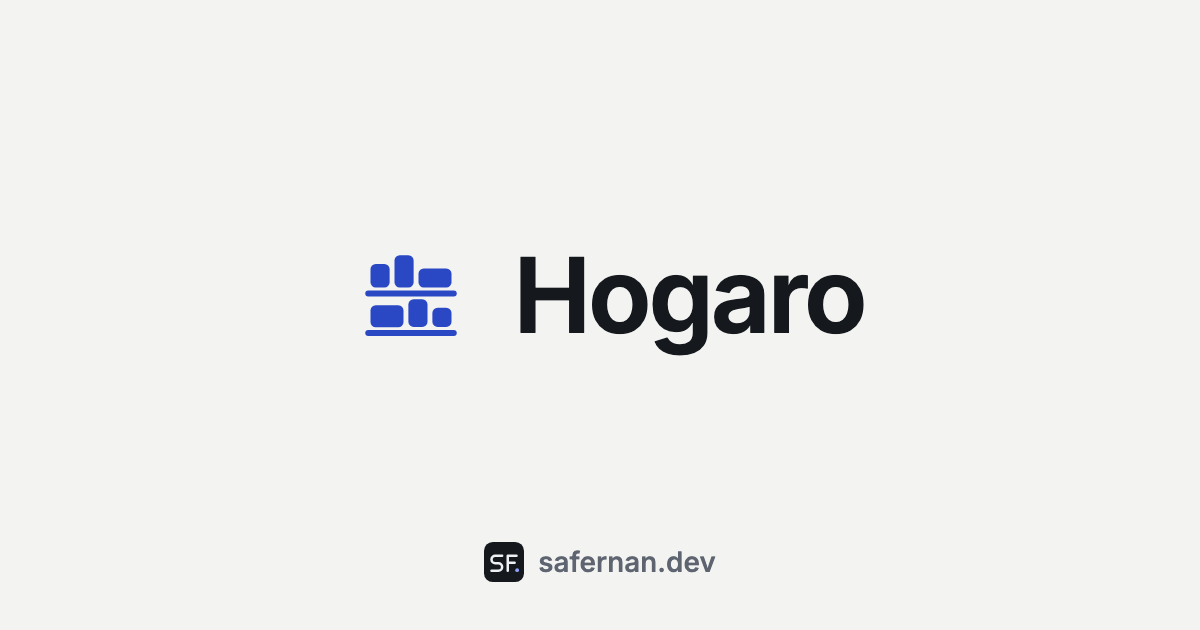
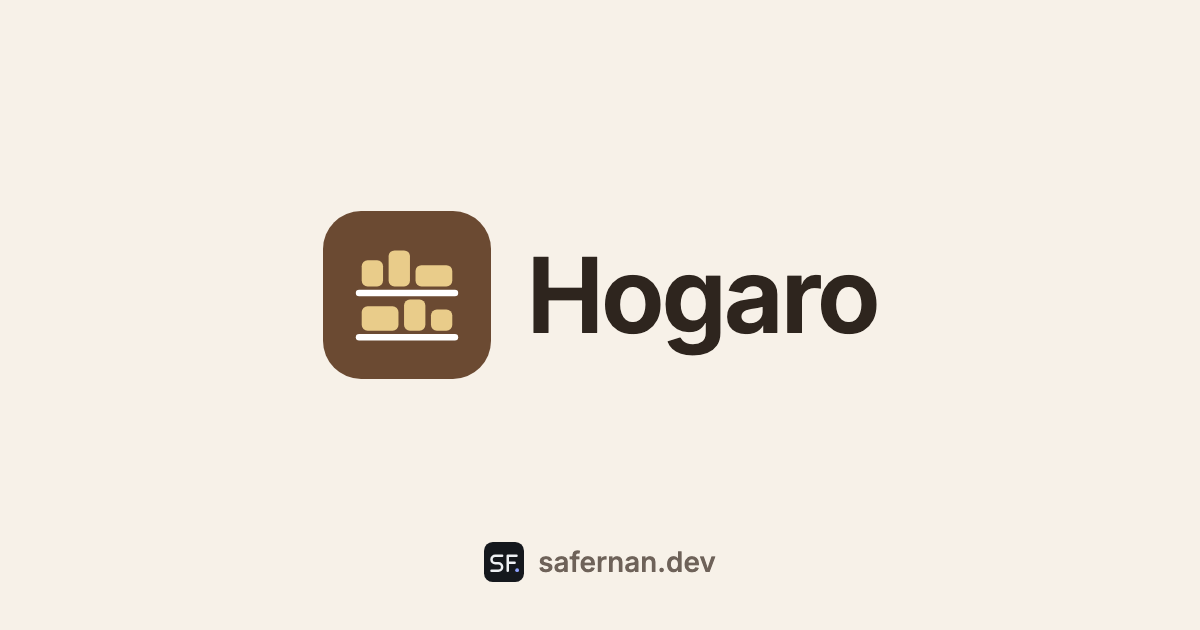
Update Hogaro to its Umber + Wheat rebrand
Show the app's recoloured Shelf icon on the Upcoming projects card and
link preview, refresh the page texts in English and Spanish from the
October 19 masterplan and hogaro.app, and link to the public site.

Changed region(s): [[0.2467, 0.3317, 0.74, 0.6032]]

diff --git a/src/content/upcomingProjects.ts b/src/content/upcomingProjects.ts
@@ -19,7 +19,7 @@ export interface UpcomingProject {
   }[]
 }
 
-// Product direction from Hogaro/docs/MASTERPLAN.md, reviewed October 6, 2026.
+// Product direction from Hogaro/docs/MASTERPLAN.md and hogaro.app, reviewed October 19, 2026.
 // These describe intended outcomes, including features still being developed.
 export const upcomingProjects: UpcomingProject[] = [
   {
@@ -30,21 +30,21 @@ export const upcomingProjects: UpcomingProject[] = [
       'Turn what’s already in your kitchen into good meals, with less waste and less guesswork.',
     tagline: 'A little less waste. A lot more possibility.',
     introduction:
-      'Open the fridge and know what to make. I’m building Hogaro to help you make the most of the food you already have, find meals you’ll look forward to, and head to the shops with a list that makes sense.',
-    availability: 'Coming to iOS and Android',
+      'Open the fridge and know what to make. I’m building Hogaro to help you make the most of the food you already have, find meals you’ll look forward to, share a pantry with the people you live with, and head to the shops with a list that makes sense.',
+    availability: 'Coming to iOS, Android and the web',
     stack: ['React Native', 'Expo', 'TypeScript', 'GraphQL', 'PostgreSQL', 'SQLite', 'Node.js'],
     features: [
       {
         title: 'Know what you have',
-        text: 'Is there rice in the cupboard? Are those tomatoes still waiting to be used? Keep a clear view of your kitchen, with a nudge when food needs using and a heads-up when the essentials are running low.',
+        text: 'Is there rice in the cupboard? Are those tomatoes still waiting to be used? Keep a clear view of your kitchen, where every purchase keeps its own quantity and dates and the food that expires first gets used first, with a nudge when something needs using and a heads-up when the essentials are running low.',
       },
       {
         title: 'Get to know your food',
-        text: 'See calories, protein, and more for your ingredients, with nutrition per 100 g and clear sources behind the numbers. Look up foods even when you’re offline, and add your own values for the ingredients you use.',
+        text: 'See calories, protein, and more for your ingredients, with nutrition per 100 g from the French Ciqual tables and reviewed USDA values filling the gaps. Look up hundreds of everyday foods even when you’re offline, and save anything you can’t find under your own name.',
       },
       {
         title: 'Dinner starts with what you have',
-        text: 'Turn a few ingredients into dinner ideas that suit the way you eat. AI will help you find recipes for your tastes and the time you have. Save the ones you love, adjust the servings, and confirm what you’ve cooked to keep your pantry up to date.',
+        text: 'Turn a few ingredients into dinner ideas that suit the way you eat. Bring in your own recipes from a website link or pasted text, see which ones you can make right now and which are just an ingredient away, and let AI find more recipes for your tastes and the time you have. Save the ones you love, adjust the servings, and confirm what you’ve cooked to keep your pantry up to date.',
       },
       {
         title: 'Make the week a little easier',
@@ -52,11 +52,11 @@ export const upcomingProjects: UpcomingProject[] = [
       },
       {
         title: 'A pantry you can share',
-        text: 'Keep everyone on the same page, from what’s in the cupboard to what needs picking up. Share pantry ingredients and shopping lists with your household, while your saved recipes stay yours. Check your shelves and update stock even when you’re offline.',
+        text: 'Keep everyone on the same page, from what’s in the cupboard to what needs picking up. Invite the people you live with, choose whether each of them can edit the stock, the shopping lists, or both, and set a few things aside just for you. Your saved recipes stay yours, you can check your shelves and update stock even when you’re offline, and sharing is free.',
       },
       {
-        title: 'A photo to get you started',
-        text: 'Take a photo and get a little help identifying your ingredients. Review the suggestions, add quantities and dates, and choose what goes into your pantry. A quicker start, with you in charge of what gets saved.',
+        title: 'Quicker ways to add food',
+        text: 'Type or paste a list like “2 cans of chickpeas, 1 l of milk, a dozen eggs” and review it before anything is saved, no connection needed. Scanning the barcode on packaged food comes next, so recording a shopping trip takes moments rather than minutes.',
       },
     ],
     screenshots: [

diff --git a/src/content/es/index.ts b/src/content/es/index.ts
@@ -437,20 +437,20 @@ export const upcomingProjects: UpcomingProject[] = [
     category: 'Tu ayuda en la cocina',
     summary: 'Convierte lo que ya tienes en la cocina en comidas ricas, con menos desperdicio y menos dudas.',
     tagline: 'Un poco menos de desperdicio. Muchas más posibilidades.',
-    introduction: 'Abre la nevera y descubre qué preparar. Estoy creando Hogaro para ayudarte a aprovechar la comida que ya tienes, encontrar platos que te apetezcan y hacer la compra con una lista que tenga sentido.',
-    availability: 'Próximamente en iOS y Android',
+    introduction: 'Abre la nevera y descubre qué preparar. Estoy creando Hogaro para ayudarte a aprovechar la comida que ya tienes, encontrar platos que te apetezcan, compartir la despensa con quienes viven contigo y hacer la compra con una lista que tenga sentido.',
+    availability: 'Próximamente en iOS, Android y la web',
     features: [
       {
         title: 'Ten claro lo que tienes',
-        text: '¿Queda arroz en la despensa? ¿Siguen esperando esos tomates? Ten una visión clara de tu cocina, con recordatorios cuando toca usar un alimento y avisos cuando se están acabando los básicos.',
+        text: '¿Queda arroz en la despensa? ¿Siguen esperando esos tomates? Ten una visión clara de tu cocina, donde cada compra conserva su propia cantidad y sus fechas y lo que caduca antes se usa primero, con recordatorios cuando toca usar un alimento y avisos cuando se están acabando los básicos.',
       },
       {
         title: 'Conoce mejor tus alimentos',
-        text: 'Consulta calorías, proteínas y más información de tus ingredientes, con valores nutricionales por 100 g y fuentes claras para las cifras. Busca alimentos incluso sin conexión y añade tus propios valores para los ingredientes que usas.',
+        text: 'Consulta calorías, proteínas y más información de tus ingredientes, con valores nutricionales por 100 g tomados de las tablas francesas Ciqual y completados con valores revisados del USDA. Busca entre cientos de alimentos habituales incluso sin conexión y guarda con tu propio nombre lo que no encuentres.',
       },
       {
         title: 'La cena empieza con lo que tienes',
-        text: 'Convierte unos pocos ingredientes en ideas para cenar que se adapten a tu forma de comer. La IA te ayudará a encontrar recetas según tus gustos y el tiempo que tengas. Guarda tus favoritas, ajusta las raciones y confirma lo que has cocinado para mantener tu despensa al día.',
+        text: 'Convierte unos pocos ingredientes en ideas para cenar que se adapten a tu forma de comer. Importa tus propias recetas desde el enlace de una web o pegando el texto, descubre cuáles puedes preparar ahora mismo y a cuáles solo les falta un ingrediente, y deja que la IA encuentre más recetas según tus gustos y el tiempo que tengas. Guarda tus favoritas, ajusta las raciones y confirma lo que has cocinado para mantener tu despensa al día.',
       },
       {
         title: 'Haz la semana un poco más fácil',
@@ -458,11 +458,11 @@ export const upcomingProjects: UpcomingProject[] = [
       },
       {
         title: 'Una despensa para compartir',
-        text: 'Mantén a todos al tanto, desde lo que hay en la despensa hasta lo que hace falta comprar. Comparte ingredientes y listas de la compra con quienes viven contigo, mientras tus recetas guardadas siguen siendo tuyas. Consulta y actualiza las existencias incluso sin conexión.',
+        text: 'Mantén a todos al tanto, desde lo que hay en la despensa hasta lo que hace falta comprar. Invita a quienes viven contigo, elige si cada persona puede editar las existencias, las listas de la compra o ambas, y reserva algunas cosas solo para ti. Tus recetas guardadas siguen siendo tuyas, puedes consultar y actualizar las existencias incluso sin conexión, y compartir es gratis.',
       },
       {
-        title: 'Una foto para empezar',
-        text: 'Haz una foto y recibe ayuda para identificar tus ingredientes. Revisa las sugerencias, añade cantidades y fechas, y elige qué entra en tu despensa. Una forma más rápida de empezar, con el control de lo que se guarda en tus manos.',
+        title: 'Formas más rápidas de añadir comida',
+        text: 'Escribe o pega una lista como «2 latas de garbanzos, 1 l de leche, una docena de huevos» y revísala antes de guardar nada, sin necesidad de conexión. Lo siguiente será escanear el código de barras de los productos envasados, para que anotar una compra lleve un momento y no minutos.',
       },
     ],
     screenshots: [

diff --git a/src/i18n/ui.ts b/src/i18n/ui.ts
@@ -54,16 +54,17 @@ const en = {
   previewImageAlt: 'The SF logo of Santiago Fernández',
   projectPreviewImageAlt: '{project} logo',
   firstTaste: 'A first taste',
-  hogaroPeek: 'A peek inside Hogaro. Still taking shape.',
+  hogaroPeek: 'A peek inside Hogaro. Still taking shape, and already wearing new colours since these screens were taken.',
   prototypeImage: 'Early prototype image',
   designMayChange: 'Design may change',
   shelfToTable: 'From shelf to table',
   hogaroVision: 'Less time wondering what’s in the fridge. More good meals with what’s already there. Here’s how Hogaro will help.',
   yourKitchen: 'Your kitchen, your way',
-  hogaroFuture: 'Cooking for yourself or sharing a fridge? I want Hogaro to feel like a helping hand in your kitchen. I’m starting with English and Spanish, and building for both iPhone and Android.',
-  hogaroStatus: 'Still cooking. Hogaro is in development, and these screens are a first taste of what’s coming.',
+  hogaroFuture: 'Cooking for yourself or sharing a fridge? I want Hogaro to feel like a helping hand in your kitchen. I’m starting with English and Spanish, building for iPhone and Android, and preparing a web version for people with an account.',
+  hogaroStatus: 'Still cooking. Hogaro is in a private test with a handful of Android testers, and these screens are a first taste of what’s coming.',
   hogaroTestingLink: 'Interested in testing Hogaro? Email me',
   hogaroTestingSubject: 'Hogaro early testing',
+  hogaroSiteLink: 'Visit hogaro.app',
   notebookEyebrow: 'Beyond the keyboard / A personal notebook',
   notebook: 'Cheesecake notebook',
   savor: 'Made to be savored.',
@@ -148,16 +149,17 @@ const es: Record<keyof typeof en, string> = {
   previewImageAlt: 'El logotipo SF de Santiago Fernández',
   projectPreviewImageAlt: 'Logotipo de {project}',
   firstTaste: 'Un primer vistazo',
-  hogaroPeek: 'Una mirada al interior de Hogaro. Todavía tomando forma.',
+  hogaroPeek: 'Una mirada al interior de Hogaro. Todavía tomando forma, y ya con colores nuevos desde que se tomaron estas pantallas.',
   prototypeImage: 'Imagen de un prototipo inicial',
   designMayChange: 'El diseño puede cambiar',
   shelfToTable: 'De la despensa a la mesa',
   hogaroVision: 'Menos tiempo preguntándote qué hay en la nevera. Más comidas ricas con lo que ya tienes. Así te ayudará Hogaro.',
   yourKitchen: 'Tu cocina, a tu manera',
-  hogaroFuture: '¿Cocinas para ti o compartes la nevera? Quiero que Hogaro sea una ayuda en tu cocina. Estoy empezando con inglés y español, y desarrollando la app para iPhone y Android.',
-  hogaroStatus: 'Todavía a fuego lento. Hogaro está en desarrollo y estas pantallas son una primera muestra de lo que viene.',
+  hogaroFuture: '¿Cocinas para ti o compartes la nevera? Quiero que Hogaro sea una ayuda en tu cocina. Estoy empezando con inglés y español, desarrollando la app para iPhone y Android, y preparando una versión web para quienes tengan cuenta.',
+  hogaroStatus: 'Todavía a fuego lento. Hogaro está en una prueba privada con un puñado de personas en Android, y estas pantallas son una primera muestra de lo que viene.',
   hogaroTestingLink: '¿Te interesa probar Hogaro? Escríbeme',
   hogaroTestingSubject: 'Pruebas anticipadas de Hogaro',
+  hogaroSiteLink: 'Visita hogaro.app',
   notebookEyebrow: 'Más allá del teclado / Un cuaderno personal',
   notebook: 'Cuaderno de tartas de queso',
   savor: 'Para saborear con calma.',

diff --git a/src/pages/UpcomingProjectPage.tsx b/src/pages/UpcomingProjectPage.tsx
@@ -90,13 +90,19 @@ export function UpcomingProjectPage({ project }: { project: UpcomingProject }) {
             <p className={styles.contextNote}>
               {ui.hogaroStatus}
             </p>
-            <a
-              href={`mailto:${profile.email}?subject=${encodeURIComponent(ui.hogaroTestingSubject)}`}
-              className={styles.externalLink}
-            >
-              <Icon name="email" width="16" height="16" />
-              <span>{ui.hogaroTestingLink}</span>
-            </a>
+            <div className={styles.upcomingLinks}>
+              <a
+                href={`mailto:${profile.email}?subject=${encodeURIComponent(ui.hogaroTestingSubject)}`}
+                className={styles.externalLink}
+              >
+                <Icon name="email" width="16" height="16" />
+                <span>{ui.hogaroTestingLink}</span>
+              </a>
+              <a href="https://hogaro.app" target="_blank" rel="noreferrer" className={styles.externalLink}>
+                {ui.hogaroSiteLink} <Icon name="arrow" width="17" height="17" />
+                <span className="sr-only"> {ui.newTab}</span>
+              </a>
+            </div>
           </div>
         </section>
         <Link to={path('/#upcoming-projects')} className={styles.nextProject}>

diff --git a/src/components/UpcomingProjectList.tsx b/src/components/UpcomingProjectList.tsx
@@ -14,16 +14,7 @@ export function UpcomingProjectList() {
             className={`${styles.projectCard} ${styles.upcomingCard}`}
           >
             <span className={styles.hogaroMark} aria-hidden="true">
-              <svg viewBox="0 0 40 40" fill="currentColor" width="40" height="40">
-                <rect x="9.2" y="11.7" width="5.1" height="6.3" rx="1.4" />
-                <rect x="15.6" y="9.4" width="5.1" height="8.6" rx="1.4" />
-                <rect x="22" y="12.9" width="8.8" height="5.1" rx="1.4" />
-                <rect x="7.8" y="18.8" width="24.4" height="1.6" rx="0.8" />
-                <rect x="9.2" y="22.7" width="8.8" height="5.9" rx="1.4" />
-                <rect x="19.3" y="21.1" width="5.1" height="7.4" rx="1.4" />
-                <rect x="25.7" y="23.4" width="5.1" height="5.1" rx="1.4" />
-                <rect x="7.8" y="29.3" width="24.4" height="1.6" rx="0.8" />
-              </svg>
+              <img src="/images/hogaro/icon.svg" alt="" width="1024" height="1024" loading="lazy" />
             </span>
             <span className={styles.projectCardCopy}>
               <span className={styles.upcomingLabel}>{ui.inDevelopment}</span>

diff --git a/src/components/Pages.module.css b/src/components/Pages.module.css
@@ -162,6 +162,11 @@
 .externalLink:hover {
   color: var(--heading);
 }
+.upcomingLinks {
+  display: flex;
+  flex-wrap: wrap;
+  gap: 0 32px;
+}
 .websiteNote {
   margin-top: 7px;
   font-size: 11px;
@@ -813,6 +818,7 @@
   border-color: var(--accent-2);
   background: var(--accent-2);
 }
+/* Hogaro's own Shelf icon: wheat jars on an umber field (Umber + Wheat palette). */
 .hogaroMark {
   display: flex;
   flex-shrink: 0;
@@ -822,8 +828,13 @@
   height: 80px;
   border: 1px solid var(--border);
   border-radius: 6px;
-  background: var(--accent-2-soft);
-  color: var(--accent-2);
+  background: #6b4a32;
+  overflow: hidden;
+}
+.hogaroMark img {
+  width: 100%;
+  height: 100%;
+  object-fit: cover;
 }
 .upcomingLabel {
   display: block;
@@ -1487,10 +1498,6 @@
   .hogaroMark {
     width: 52px;
     height: 64px;
-  }
-  .hogaroMark svg {
-    width: 32px;
-    height: 32px;
   }
   .upcomingIntroduction {
     font-size: 14px;

diff --git a/docs/CONTENT.md b/docs/CONTENT.md
@@ -10,7 +10,7 @@ All copy is typed data in `src/content/`. Pages render from it; nothing is fetch
 | --- | --- |
 | `src/content/profile.ts` | Identity, introduction, the grouped tech stack under the name, social links (including the résumé), ordered experience entries, and homepage sections |
 | `src/content/projects.ts` | The Beacon, CryptoMKT, and Uppercap project pages: descriptions, role, contributions, technologies, media, and sources |
-| `src/content/upcomingProjects.ts` | Upcoming projects (Hogaro): planned features, technologies, and prototype screenshots |
+| `src/content/upcomingProjects.ts` | Upcoming projects (Hogaro): planned features, technologies, prototype screenshots, and the link to hogaro.app |
 | `src/content/about.ts` | The personal “Behind the keyboard” page at `/about` |
 | `src/content/cheesecake.ts` | Cheesecake notebook introduction and tab copy |
 | `src/content/recipes.ts` | Recipe entries, each with its own `/cheesecake/recipes/:slug` page |
@@ -131,15 +131,15 @@ The logo and launch artwork appear in Uppercap's [January 25, 2021 founder story
 
 ### Hogaro
 
-The public overview is adapted from Hogaro's own planning documents and README, reviewed October 6, 2026, and its screenshots come from the Hogaro project. The app was named PantryApp until its October 15, 2026 rebrand to Hogaro; the old `/projects/pantry-app` URLs redirect to `/projects/hogaro` through `public/_redirects`. Every screenshot carries a visible “Early prototype image” / “Design may change” label; CSS crops only empty side gutters. The page describes intended features, promises no release date or price, and keeps detailed storage, connectivity, and pricing decisions out of the public pitch.
+The public overview is adapted from Hogaro's own planning documents (`docs/MASTERPLAN.md`), README, and public site at [hogaro.app](https://hogaro.app), reviewed October 19, 2026, and its screenshots come from the Hogaro project. The app was named PantryApp until its October 15, 2026 rebrand to Hogaro; the old `/projects/pantry-app` URLs redirect to `/projects/hogaro` through `public/_redirects`. On October 19, 2026 the app adopted the Umber + Wheat palette (umber `#6B4A32`, wheat `#E9CC8A`, cream `#F7F1E8`); `public/images/hogaro/icon.svg` is a copy of the app's own Shelf icon in those colours and is shown on the Upcoming projects card and the link preview. The two prototype screenshots predate that palette and still show the earlier cobalt-and-apricot colours; the page says so and every screenshot carries a visible “Early prototype image” / “Design may change” label, while CSS crops only empty side gutters. Replace them when new-palette captures exist. The page describes intended features in the order of Hogaro's October 2026 roadmap (accurate stock, Ciqual-first nutrition, recipe import ahead of AI discovery, weekly planning, free household sharing, quick list entry with barcode scanning next; photo recognition is no longer mentioned because it was deferred), promises no release date or price, and keeps detailed storage, connectivity, and pricing decisions out of the public pitch. The page links to hogaro.app and to the email address for testers.
 
 ### Link previews
 
-`public/images/previews/` holds the 1200×630 images shown when a page is shared. `default.png` (the SF logo and name) is used for every page except projects, which use their own card: The Beacon, CryptoMKT, and Uppercap show the official logos listed above, and Hogaro shows its shelf mark. Regenerate them with `npm run previews` (macOS Google Chrome) after changing a logo, and add a card when adding a project; `npm test` checks every sitemap page has one. Titles, descriptions, and image alt text come from `src/pageMetadata.ts` in both languages.
+`public/images/previews/` holds the 1200×630 images shown when a page is shared. `default.png` (the SF logo and name) is used for every page except projects, which use their own card: The Beacon, CryptoMKT, and Uppercap show the official logos listed above, and Hogaro shows its Shelf icon on its own cream background. Regenerate them with `npm run previews` (macOS Google Chrome) after changing a logo, and add a card when adding a project; `npm test` checks every sitemap page has one. Titles, descriptions, and image alt text come from `src/pageMetadata.ts` in both languages.
 
 ### Original artwork
 
-The favicon and the cheesecake illustration are original inline SVGs. The Hogaro shelf mark is an inline SVG adapted from the app's own icon, drawn in the site's accent colour. Review photos are Santiago's own.
+The favicon and the cheesecake illustration are original inline SVGs. The Hogaro Shelf icon (`public/images/hogaro/icon.svg`) is the app's own icon, copied unchanged from the Hogaro repository's `assets/icon.svg`; the app's own `assets/README.md` describes it. Review photos are Santiago's own.
 
 ## Manual release checks
 
